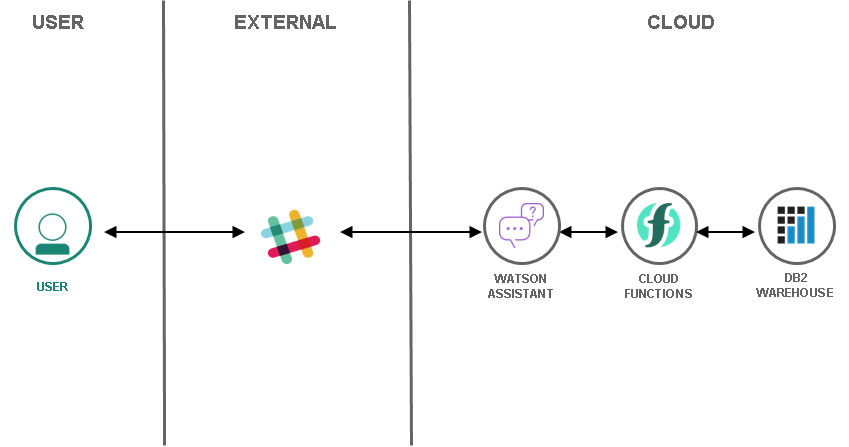
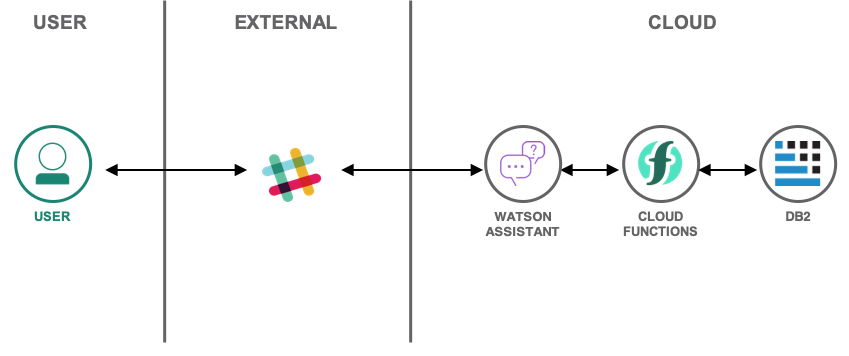
2019-10-01 15:29:25+0000 (b4d9d3da9799e05f3136f0251702fe521a0f0df6)

diff --git a/slack-chatbot-database-watson.md b/slack-chatbot-database-watson.md
@@ -2,8 +2,8 @@
 subcollection: solution-tutorials
 copyright:
   years: 2018, 2019
-lastupdated: "2019-07-08"
-lasttested: "2019-04-22"
+lastupdated: "2019-10-01"
+lasttested: "2019-10-01"
 ---
 
 {:shortdesc: .shortdesc}
@@ -18,7 +18,7 @@ lasttested: "2019-04-22"
 
 In this tutorial, you are going to build a Slackbot to create and search Db2 database entries for events and conferences. The Slackbot is backed by the {{site.data.keyword.conversationfull}} service. You will integrate Slack and {{site.data.keyword.conversationfull}} using an Assistant integration.
 
-The  Slack integration channels messages between Slack and {{site.data.keyword.conversationshort}}. There, some server-side dialog actions perform SQL queries against a Db2 database. All (but not much) code is written in Node.js.
+The Slack integration channels messages between Slack and {{site.data.keyword.conversationshort}}. There, some server-side dialog actions perform SQL queries against a Db2 database. All (but not much) code is written in Node.js.
 
 ## Objectives
 {: #objectives}
@@ -33,7 +33,7 @@ The  Slack integration channels messages between Slack and {{site.data.keyword.c
 This tutorial uses the following runtimes and services:
    * [{{site.data.keyword.conversationfull}}](https://{DomainName}/catalog/services/conversation)
    * [{{site.data.keyword.openwhisk_short}}](https://{DomainName}/openwhisk/)
-   * [{{site.data.keyword.dashdblong}} ](https://{DomainName}/catalog/services/db2-warehouse) or [{{site.data.keyword.databases-for-postgresql}}](https://{DomainName}/catalog/services/databases-for-postgresql)
+   * [{{site.data.keyword.Db2_on_Cloud_long}}}} ](https://{DomainName}/catalog/services/db2) or [{{site.data.keyword.databases-for-postgresql}}](https://{DomainName}/catalog/services/databases-for-postgresql)
 
 
 This tutorial may incur costs. Use the [Pricing Calculator](https://{DomainName}/estimator/review) to generate a cost estimate based on your projected usage.
@@ -61,39 +61,43 @@ In this section, you are going to set up the needed services and prepare the env
    cd slack-chatbot-database-watson
    ```
    {: pre}
-2. If you are not logged in, use `ibmcloud login` to log in interactively.
-3. Target the organization and space where to create the database service with:
+2. If you are not logged in, use `ibmcloud login` to log in interactively. Target the organization and space where to create the database service with:
    ```sh
    ibmcloud target --cf
    ```
    {: pre}
-4. Create a {{site.data.keyword.dashdbshort}} instance and name it **eventDB**:
+3. Create a {{site.data.keyword.Db2_on_Cloud_short}}}} instance and name it **eventDB**. Adapt the region **us-south** to your region.
    ```sh
-   ibmcloud cf create-service dashDB Entry eventDB
+   ibmcloud resource service-instance-create eventDB dashdb-for-transactions free us-south
    ```
    {: pre}
-   You can also use another than the **Entry** plan.
-5. To access the database service from {{site.data.keyword.openwhisk_short}} later on, you need the authorization. Thus, you create service credentials and label them **slackbotkey**:
+   You can also use another than the **free** (lite) plan. Next, create a service alias. Replace **YOUR_SPACE** with the space name you selected in step 3.
+   ```sh
+   ibmcloud resource service-alias-create eventDB --instance-name eventDB -s YOUR_SPACE
+   ```
+   {: pre}
+
+   To access the database service from {{site.data.keyword.openwhisk_short}} later on, you need the authorization. Thus, you create service credentials and label them **slackbotkey**:
    ```sh
    ibmcloud cf create-service-key eventDB slackbotkey
    ```
    {: pre}
-6. Create an instance of the {{site.data.keyword.conversationshort}} service. Use **eventConversation** as name and the free Lite plan.
+4. Create an instance of the {{site.data.keyword.conversationshort}} service. Use **eventConversation** as name and the free Lite plan.
    ```sh
    ibmcloud cf create-service conversation free eventConversation
    ```
    {: pre}
-7. Next, you are going to register actions for {{site.data.keyword.openwhisk_short}} and bind service credentials to those actions. Some of the actions are enabled as web actions and a secret is set to prevent unauthorized invocations. Choose a secret and pass it in as parameter - replace **YOURSECRET** accordingly.
+5. Next, you are going to register actions for {{site.data.keyword.openwhisk_short}} and bind service credentials to those actions. Some of the actions are enabled as web actions and a secret is set to prevent unauthorized invocations. Choose a secret and pass it in as parameter - replace **YOURSECRET** accordingly.
 
    One of the actions gets invoked to create a table in {{site.data.keyword.dashdbshort}}. By using an action of {{site.data.keyword.openwhisk_short}}, you neither need a local Db2 driver nor have to use the browser-based interface to manually create the table. To perform the registration and setup, run the line below and this will execute the **setup.sh** file which contains all the actions. If your system does not support shell commands, copy each line out of the file **setup.sh** and execute it individually.
 
    ```sh
-   sh setup.sh YOURSECRET
+   sh setup.sh YOURSECRET "dashDB for Transactions"
    ```
    {: pre}
 
    **Note:** By default the script also inserts few rows of sample data. You can disable this by outcommenting the following line in the above script: `#ibmcloud fn action invoke slackdemo/db2Setup -p mode "[\"sampledata\"]" -r`
-8. Extract the namespace information for the deployed actions.
+6.  Extract the namespace information for the deployed actions.
 
    ```sh
    ibmcloud fn action list | grep eventInsert
@@ -188,6 +192,6 @@ Documentation and SDKs:
 * GitHub repository with [tips and tricks for handling variables in IBM Watson Conversation](https://github.com/IBM-Cloud/watson-conversation-variables)
 * [{{site.data.keyword.openwhisk_short}} documentation](https://{DomainName}/docs/openwhisk?topic=cloud-functions-openwhisk_about#about-cloud-functions)
 * Documentation: [IBM Knowledge Center for {{site.data.keyword.dashdbshort}}](https://www.ibm.com/support/knowledgecenter/en/SS6NHC/com.ibm.swg.im.dashdb.kc.doc/welcome.html)
-* [Free Db2 Developer Community Edition](https://www.ibm.com/us-en/marketplace/ibm-db2-direct-and-developer-editions) for developers
+* [Free Db2 edition for developers](https://www.ibm.com/us-en/marketplace/ibm-db2-direct-and-developer-editions) for developers
 * Documentation: [API Description of the ibm_db Node.js driver](https://github.com/ibmdb/node-ibm_db)
 * [{{site.data.keyword.cloudantfull}} documentation](https://{DomainName}/docs/services/Cloudant?topic=cloudant-overview#overview)
